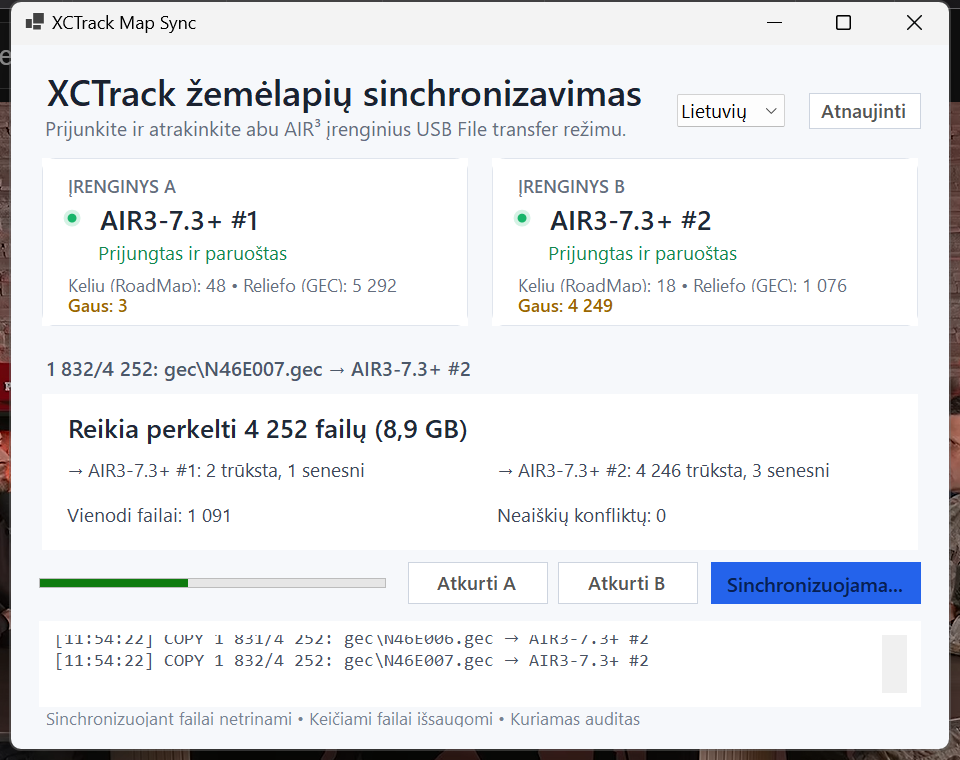
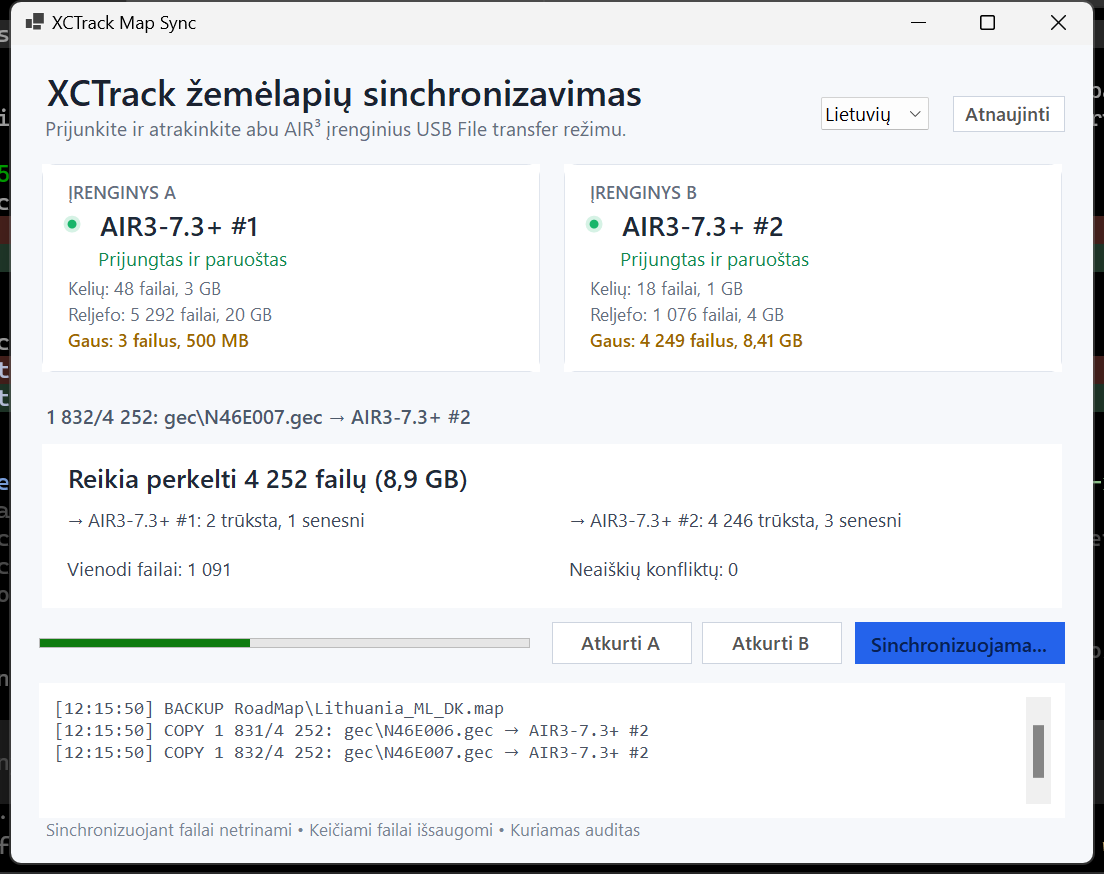
Show map storage statistics

diff --git a/gui/MainForm.cs b/gui/MainForm.cs
@@ -51,8 +51,8 @@ internal sealed class MainForm : Form
         _language = LoadLanguage(languageOverride);
         Text = "XCTrack Map Sync";
         StartPosition = FormStartPosition.CenterScreen;
-        MinimumSize = new Size(880, 680);
-        Size = new Size(960, 760);
+        MinimumSize = new Size(1_012, 782);
+        Size = new Size(1_104, 874);
         BackColor = Color.FromArgb(246, 248, 251);
         Font = new Font("Segoe UI", 9.5f);
         AutoScaleMode = AutoScaleMode.Dpi;
@@ -92,13 +92,13 @@ internal sealed class MainForm : Form
             RowCount = 7,
             BackColor = BackColor
         };
-        root.RowStyles.Add(new RowStyle(SizeType.Absolute, 88));
-        root.RowStyles.Add(new RowStyle(SizeType.Absolute, 188));
-        root.RowStyles.Add(new RowStyle(SizeType.Absolute, 48));
-        root.RowStyles.Add(new RowStyle(SizeType.Absolute, 162));
-        root.RowStyles.Add(new RowStyle(SizeType.Absolute, 60));
+        root.RowStyles.Add(new RowStyle(SizeType.Absolute, 94));
+        root.RowStyles.Add(new RowStyle(SizeType.Absolute, 228));
+        root.RowStyles.Add(new RowStyle(SizeType.Absolute, 52));
+        root.RowStyles.Add(new RowStyle(SizeType.Absolute, 170));
+        root.RowStyles.Add(new RowStyle(SizeType.Absolute, 64));
         root.RowStyles.Add(new RowStyle(SizeType.Percent, 100));
-        root.RowStyles.Add(new RowStyle(SizeType.Absolute, 20));
+        root.RowStyles.Add(new RowStyle(SizeType.Absolute, 23));
 
         var header = new TableLayoutPanel
         {
@@ -739,20 +739,26 @@ internal sealed class MainForm : Form
             comparison.DeviceA.Name,
             comparison.DeviceA.Layout,
             T(
-                $"Kelių (RoadMap): {N(comparison.DeviceA.RoadMapCount)} • Reljefo (GEC): {N(comparison.DeviceA.GecCount)}",
-                $"Road maps: {N(comparison.DeviceA.RoadMapCount)} • Terrain (GEC): {N(comparison.DeviceA.GecCount)}"),
+                $"Kelių: {N(comparison.DeviceA.RoadMapCount)} failai, {FormatBytes(comparison.DeviceA.RoadMapBytes)}",
+                $"Road maps: {N(comparison.DeviceA.RoadMapCount)} files, {FormatBytes(comparison.DeviceA.RoadMapBytes)}"),
             T(
-                $"Gaus: {N(comparison.DeviceA.MissingIncoming + comparison.DeviceA.NewerIncoming)}",
-                $"Will receive: {N(comparison.DeviceA.MissingIncoming + comparison.DeviceA.NewerIncoming)}"));
+                $"Gaus: {N(comparison.DeviceA.MissingIncoming + comparison.DeviceA.NewerIncoming)} failus, {FormatBytes(comparison.DeviceA.BytesIncoming)}",
+                $"Will receive: {N(comparison.DeviceA.MissingIncoming + comparison.DeviceA.NewerIncoming)} files, {FormatBytes(comparison.DeviceA.BytesIncoming)}"),
+            T(
+                $"Reljefo: {N(comparison.DeviceA.GecCount)} failai, {FormatBytes(comparison.DeviceA.GecBytes)}",
+                $"Terrain: {N(comparison.DeviceA.GecCount)} files, {FormatBytes(comparison.DeviceA.GecBytes)}"));
         _deviceB.SetConnected(
             comparison.DeviceB.Name,
             comparison.DeviceB.Layout,
             T(
-                $"Kelių (RoadMap): {N(comparison.DeviceB.RoadMapCount)} • Reljefo (GEC): {N(comparison.DeviceB.GecCount)}",
-                $"Road maps: {N(comparison.DeviceB.RoadMapCount)} • Terrain (GEC): {N(comparison.DeviceB.GecCount)}"),
+                $"Kelių: {N(comparison.DeviceB.RoadMapCount)} failai, {FormatBytes(comparison.DeviceB.RoadMapBytes)}",
+                $"Road maps: {N(comparison.DeviceB.RoadMapCount)} files, {FormatBytes(comparison.DeviceB.RoadMapBytes)}"),
             T(
-                $"Gaus: {N(comparison.DeviceB.MissingIncoming + comparison.DeviceB.NewerIncoming)}",
-                $"Will receive: {N(comparison.DeviceB.MissingIncoming + comparison.DeviceB.NewerIncoming)}"));
+                $"Gaus: {N(comparison.DeviceB.MissingIncoming + comparison.DeviceB.NewerIncoming)} failus, {FormatBytes(comparison.DeviceB.BytesIncoming)}",
+                $"Will receive: {N(comparison.DeviceB.MissingIncoming + comparison.DeviceB.NewerIncoming)} files, {FormatBytes(comparison.DeviceB.BytesIncoming)}"),
+            T(
+                $"Reljefo: {N(comparison.DeviceB.GecCount)} failai, {FormatBytes(comparison.DeviceB.GecBytes)}",
+                $"Terrain: {N(comparison.DeviceB.GecCount)} files, {FormatBytes(comparison.DeviceB.GecBytes)}"));
 
         _summaryTitle.Text = comparison.Transfers == 0
             ? T("Abu įrenginiai jau sinchronizuoti", "Both devices are already synchronized")
@@ -795,6 +801,8 @@ internal sealed class MainForm : Form
                 FileCount = 5_340,
                 RoadMapCount = 48,
                 GecCount = 5_292,
+                RoadMapBytes = 3_221_225_472,
+                GecBytes = 21_474_836_480,
                 MissingIncoming = 2,
                 NewerIncoming = 1,
                 BytesIncoming = 524_288_000
@@ -806,6 +814,8 @@ internal sealed class MainForm : Form
                 FileCount = 1_094,
                 RoadMapCount = 18,
                 GecCount = 1_076,
+                RoadMapBytes = 1_073_741_824,
+                GecBytes = 4_294_967_296,
                 MissingIncoming = 4_246,
                 NewerIncoming = 3,
                 BytesIncoming = 9_032_679_424
@@ -875,7 +885,9 @@ internal sealed class MainForm : Form
                         Layout = "Android-data",
                         FileCount = 5_343,
                         RoadMapCount = 51,
-                        GecCount = 5_292
+                        GecCount = 5_292,
+                        RoadMapBytes = 3_745_513_472,
+                        GecBytes = 21_474_836_480
                     },
                     DeviceB = new DeviceComparison
                     {
@@ -883,7 +895,9 @@ internal sealed class MainForm : Form
                         Layout = "Android-data",
                         FileCount = 5_343,
                         RoadMapCount = 51,
-                        GecCount = 5_292
+                        GecCount = 5_292,
+                        RoadMapBytes = 3_745_513_472,
+                        GecBytes = 21_474_836_480
                     },
                     Transfers = 0,
                     Same = 5_343,

diff --git a/gui/DeviceCard.cs b/gui/DeviceCard.cs
@@ -10,6 +10,7 @@ internal sealed class DeviceCard : Panel
     private readonly Label _name;
     private readonly Label _state;
     private readonly Label _details;
+    private readonly Label _secondaryDetails;
     private readonly Label _incoming;
     private string _disconnectedText = "Neprijungtas";
     private string _waitingText = "Laukiama USB / MTP įrenginio";
@@ -96,7 +97,7 @@ internal sealed class DeviceCard : Panel
         {
             Text = "Atrakinkite įrenginį ir pasirinkite File transfer.",
             Dock = DockStyle.Fill,
-            AutoEllipsis = true,
+            AutoEllipsis = false,
             ForeColor = Color.FromArgb(100, 110, 125),
             Font = new Font("Segoe UI", 9f),
             TextAlign = ContentAlignment.TopLeft,
@@ -114,19 +115,32 @@ internal sealed class DeviceCard : Panel
             Margin = Padding.Empty
         };
 
+        _secondaryDetails = new Label
+        {
+            Text = string.Empty,
+            Dock = DockStyle.Fill,
+            AutoEllipsis = false,
+            ForeColor = Color.FromArgb(100, 110, 125),
+            Font = new Font("Segoe UI", 9f),
+            TextAlign = ContentAlignment.TopLeft,
+            Margin = Padding.Empty
+        };
+
         var detailsPanel = new TableLayoutPanel
         {
             Dock = DockStyle.Fill,
             BackColor = Color.White,
-            Padding = new Padding(0, 5, 0, 0),
+            Padding = new Padding(0, 2, 0, 0),
             Margin = Padding.Empty,
             ColumnCount = 1,
-            RowCount = 2
+            RowCount = 3
         };
-        detailsPanel.RowStyles.Add(new RowStyle(SizeType.Percent, 50));
-        detailsPanel.RowStyles.Add(new RowStyle(SizeType.Percent, 50));
+        detailsPanel.RowStyles.Add(new RowStyle(SizeType.Percent, 31));
+        detailsPanel.RowStyles.Add(new RowStyle(SizeType.Percent, 31));
+        detailsPanel.RowStyles.Add(new RowStyle(SizeType.Percent, 38));
         detailsPanel.Controls.Add(_details, 0, 0);
-        detailsPanel.Controls.Add(_incoming, 0, 1);
+        detailsPanel.Controls.Add(_secondaryDetails, 0, 1);
+        detailsPanel.Controls.Add(_incoming, 0, 2);
 
         layout.Controls.Add(_caption, 0, 0);
         layout.Controls.Add(nameRow, 0, 1);
@@ -157,6 +171,7 @@ internal sealed class DeviceCard : Panel
             _name.Text = _disconnectedText;
             _state.Text = _waitingText;
             _details.Text = _unlockText;
+            _secondaryDetails.Text = string.Empty;
             _incoming.Text = string.Empty;
         }
     }
@@ -169,10 +184,16 @@ internal sealed class DeviceCard : Panel
         _state.Text = message ?? _waitingText;
         _state.ForeColor = Color.FromArgb(185, 55, 55);
         _details.Text = _unlockText;
+        _secondaryDetails.Text = string.Empty;
         _incoming.Text = string.Empty;
     }
 
-    public void SetConnected(string name, string layout, string details, string incoming = "")
+    public void SetConnected(
+        string name,
+        string layout,
+        string details,
+        string incoming = "",
+        string secondaryDetails = "")
     {
         _isConnected = true;
         _dot.IsConnected = true;
@@ -180,6 +201,7 @@ internal sealed class DeviceCard : Panel
         _state.Text = _connectedText;
         _state.ForeColor = Color.FromArgb(18, 135, 80);
         _details.Text = string.IsNullOrWhiteSpace(details) ? layout : details;
+        _secondaryDetails.Text = secondaryDetails;
         _incoming.Text = incoming;
     }
 

diff --git a/gui/Models.cs b/gui/Models.cs
@@ -23,6 +23,8 @@ internal sealed class DeviceComparison
     public int FileCount { get; set; }
     public int RoadMapCount { get; set; }
     public int GecCount { get; set; }
+    public long RoadMapBytes { get; set; }
+    public long GecBytes { get; set; }
     public int MissingIncoming { get; set; }
     public int NewerIncoming { get; set; }
     public long BytesIncoming { get; set; }

diff --git a/README-LT.md b/README-LT.md
@@ -30,6 +30,7 @@ Programa:
 
 - aptinka du prijungtus ir atrakintus XCTrack įrenginius;
 - palygina `Map/RoadMap` ir `Map/gec` katalogus;
+- parodo kiekvieno įrenginio esamą kelių bei reljefo failų kiekį ir bendrą dydį;
 - parodo, kuriame įrenginyje trūksta failų arba yra senesnių versijų;
 - dvikrypčiai nukopijuoja trūkstamus failus;
 - skirtingo dydžio senesnį failą pakeičia tik tada, kai naujesnė pusė aiški;

diff --git a/README.md b/README.md
@@ -30,6 +30,7 @@ The application:
 
 - detects two connected and unlocked XCTrack devices;
 - compares `Map/RoadMap` and `Map/gec`;
+- shows the current file count and total size for road maps and terrain on each device;
 - shows which device is missing files or has older versions;
 - copies missing files in both directions;
 - replaces an older different-size file only when the newer side is clear;
